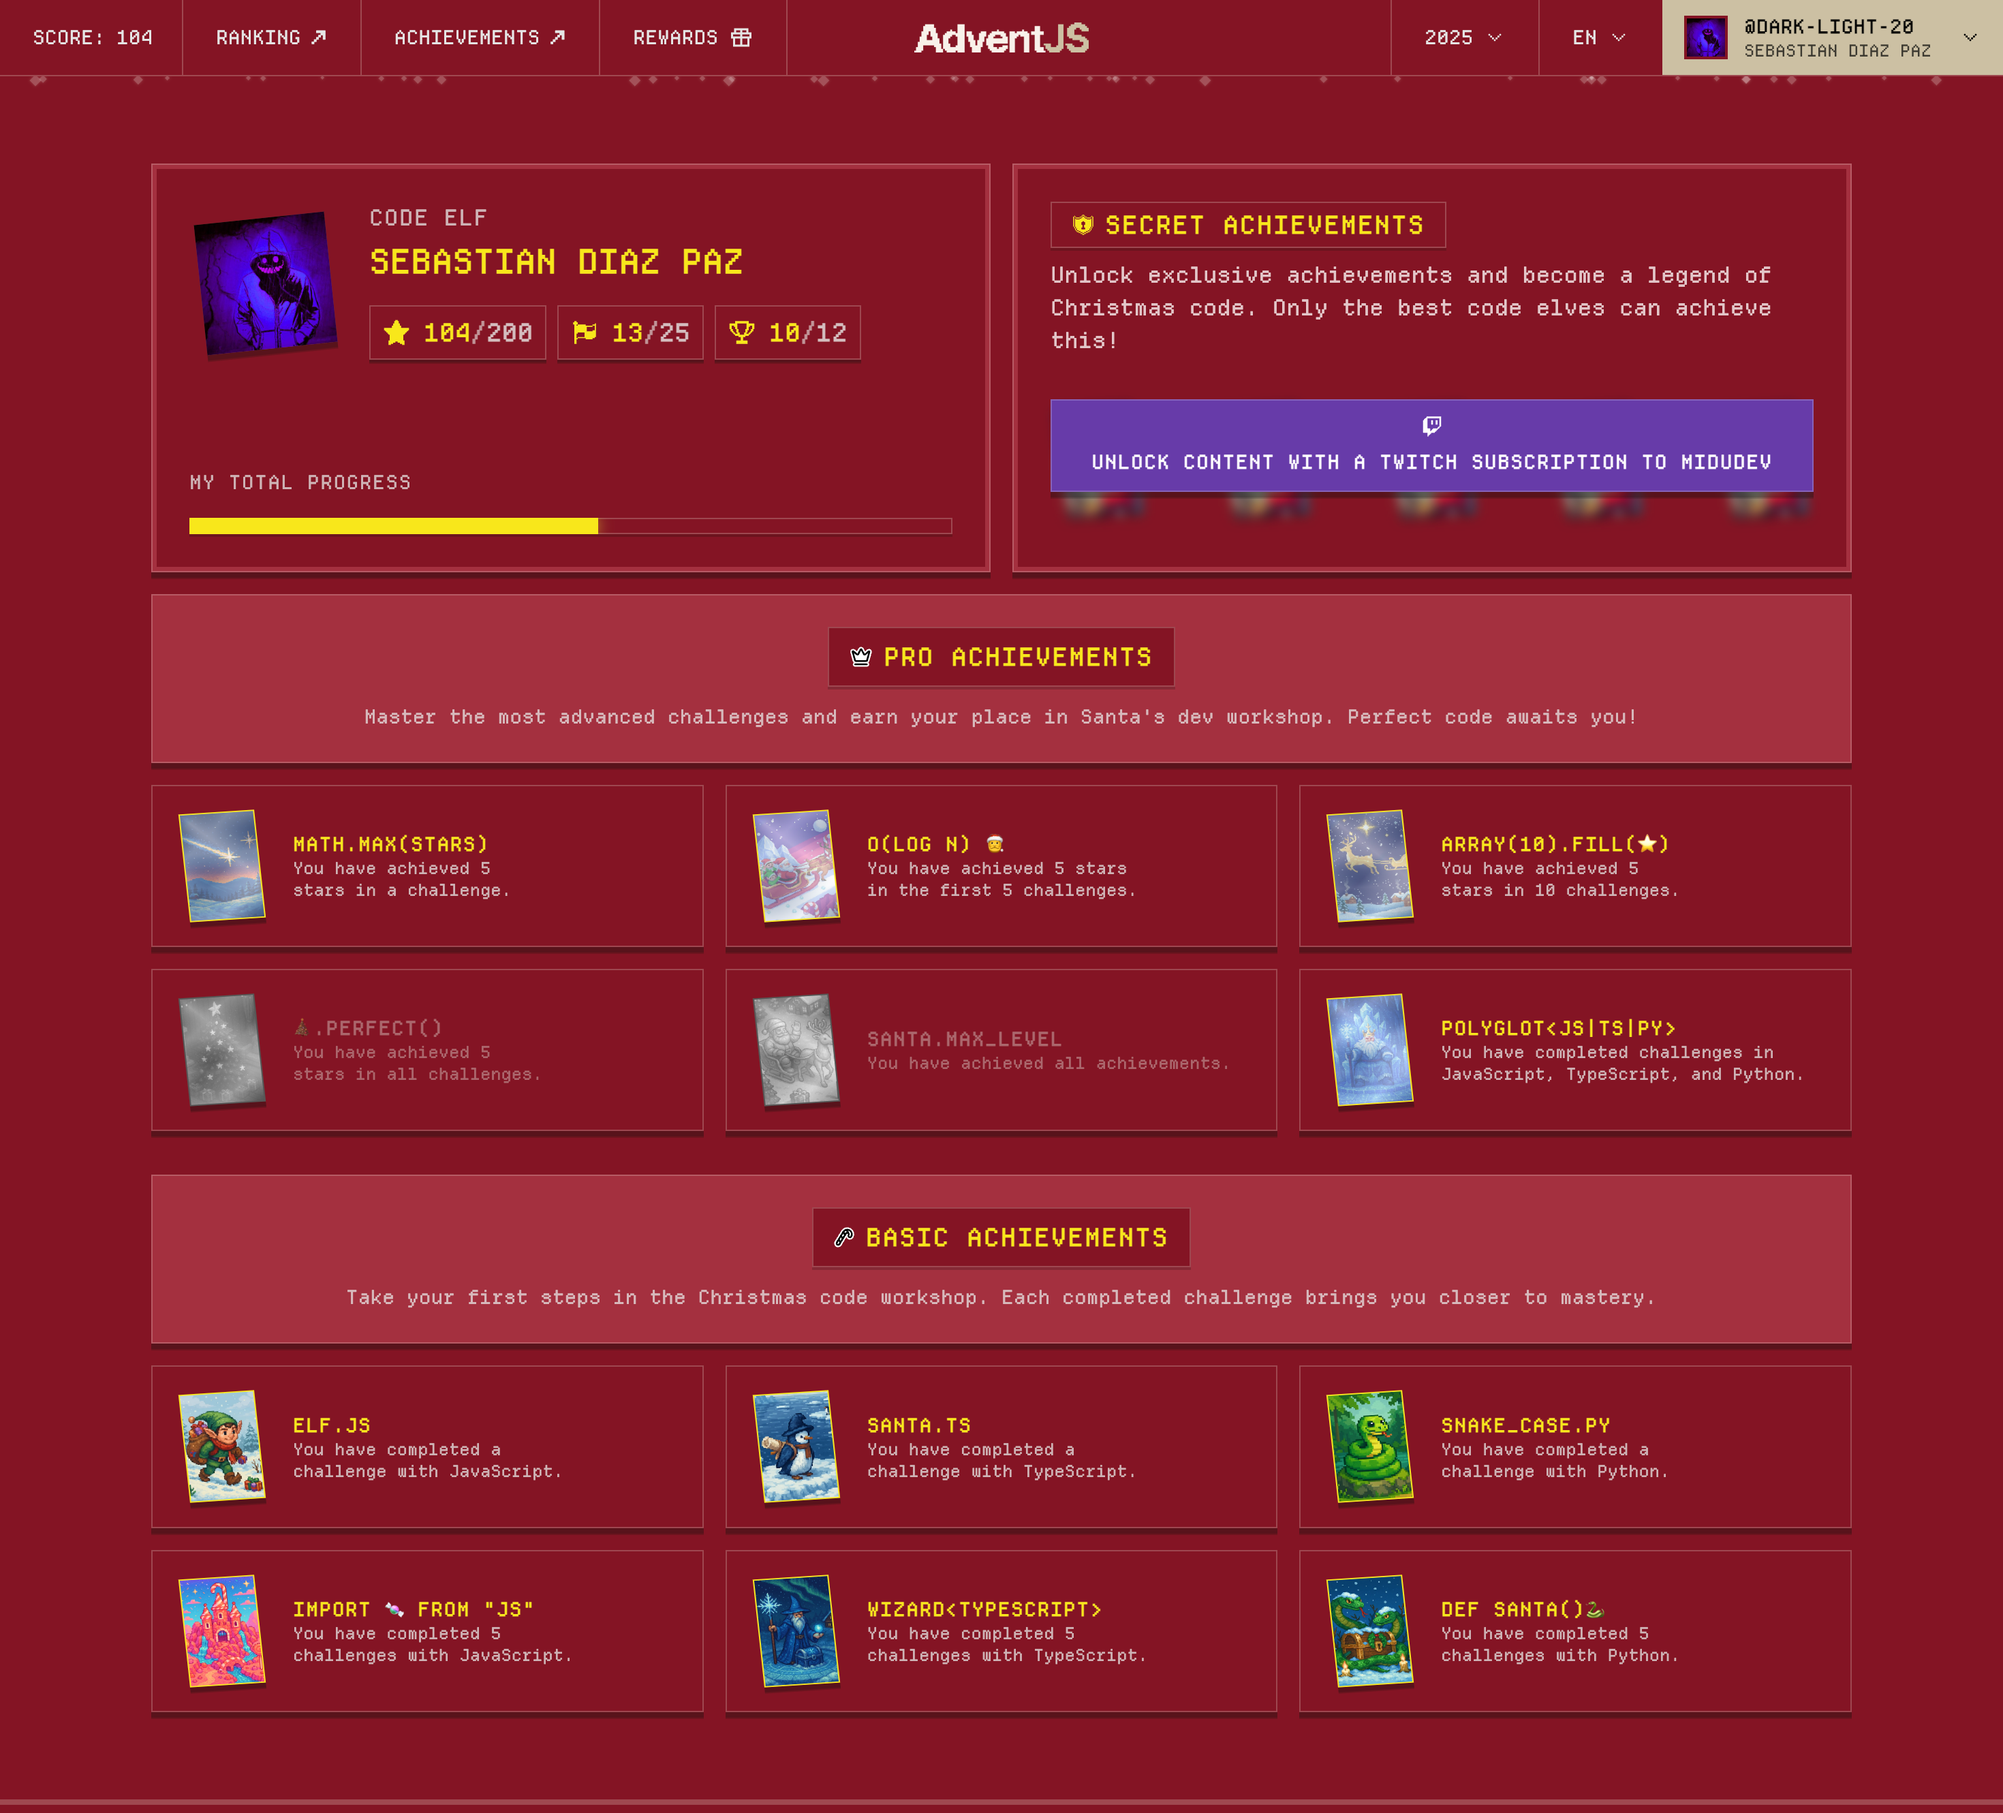
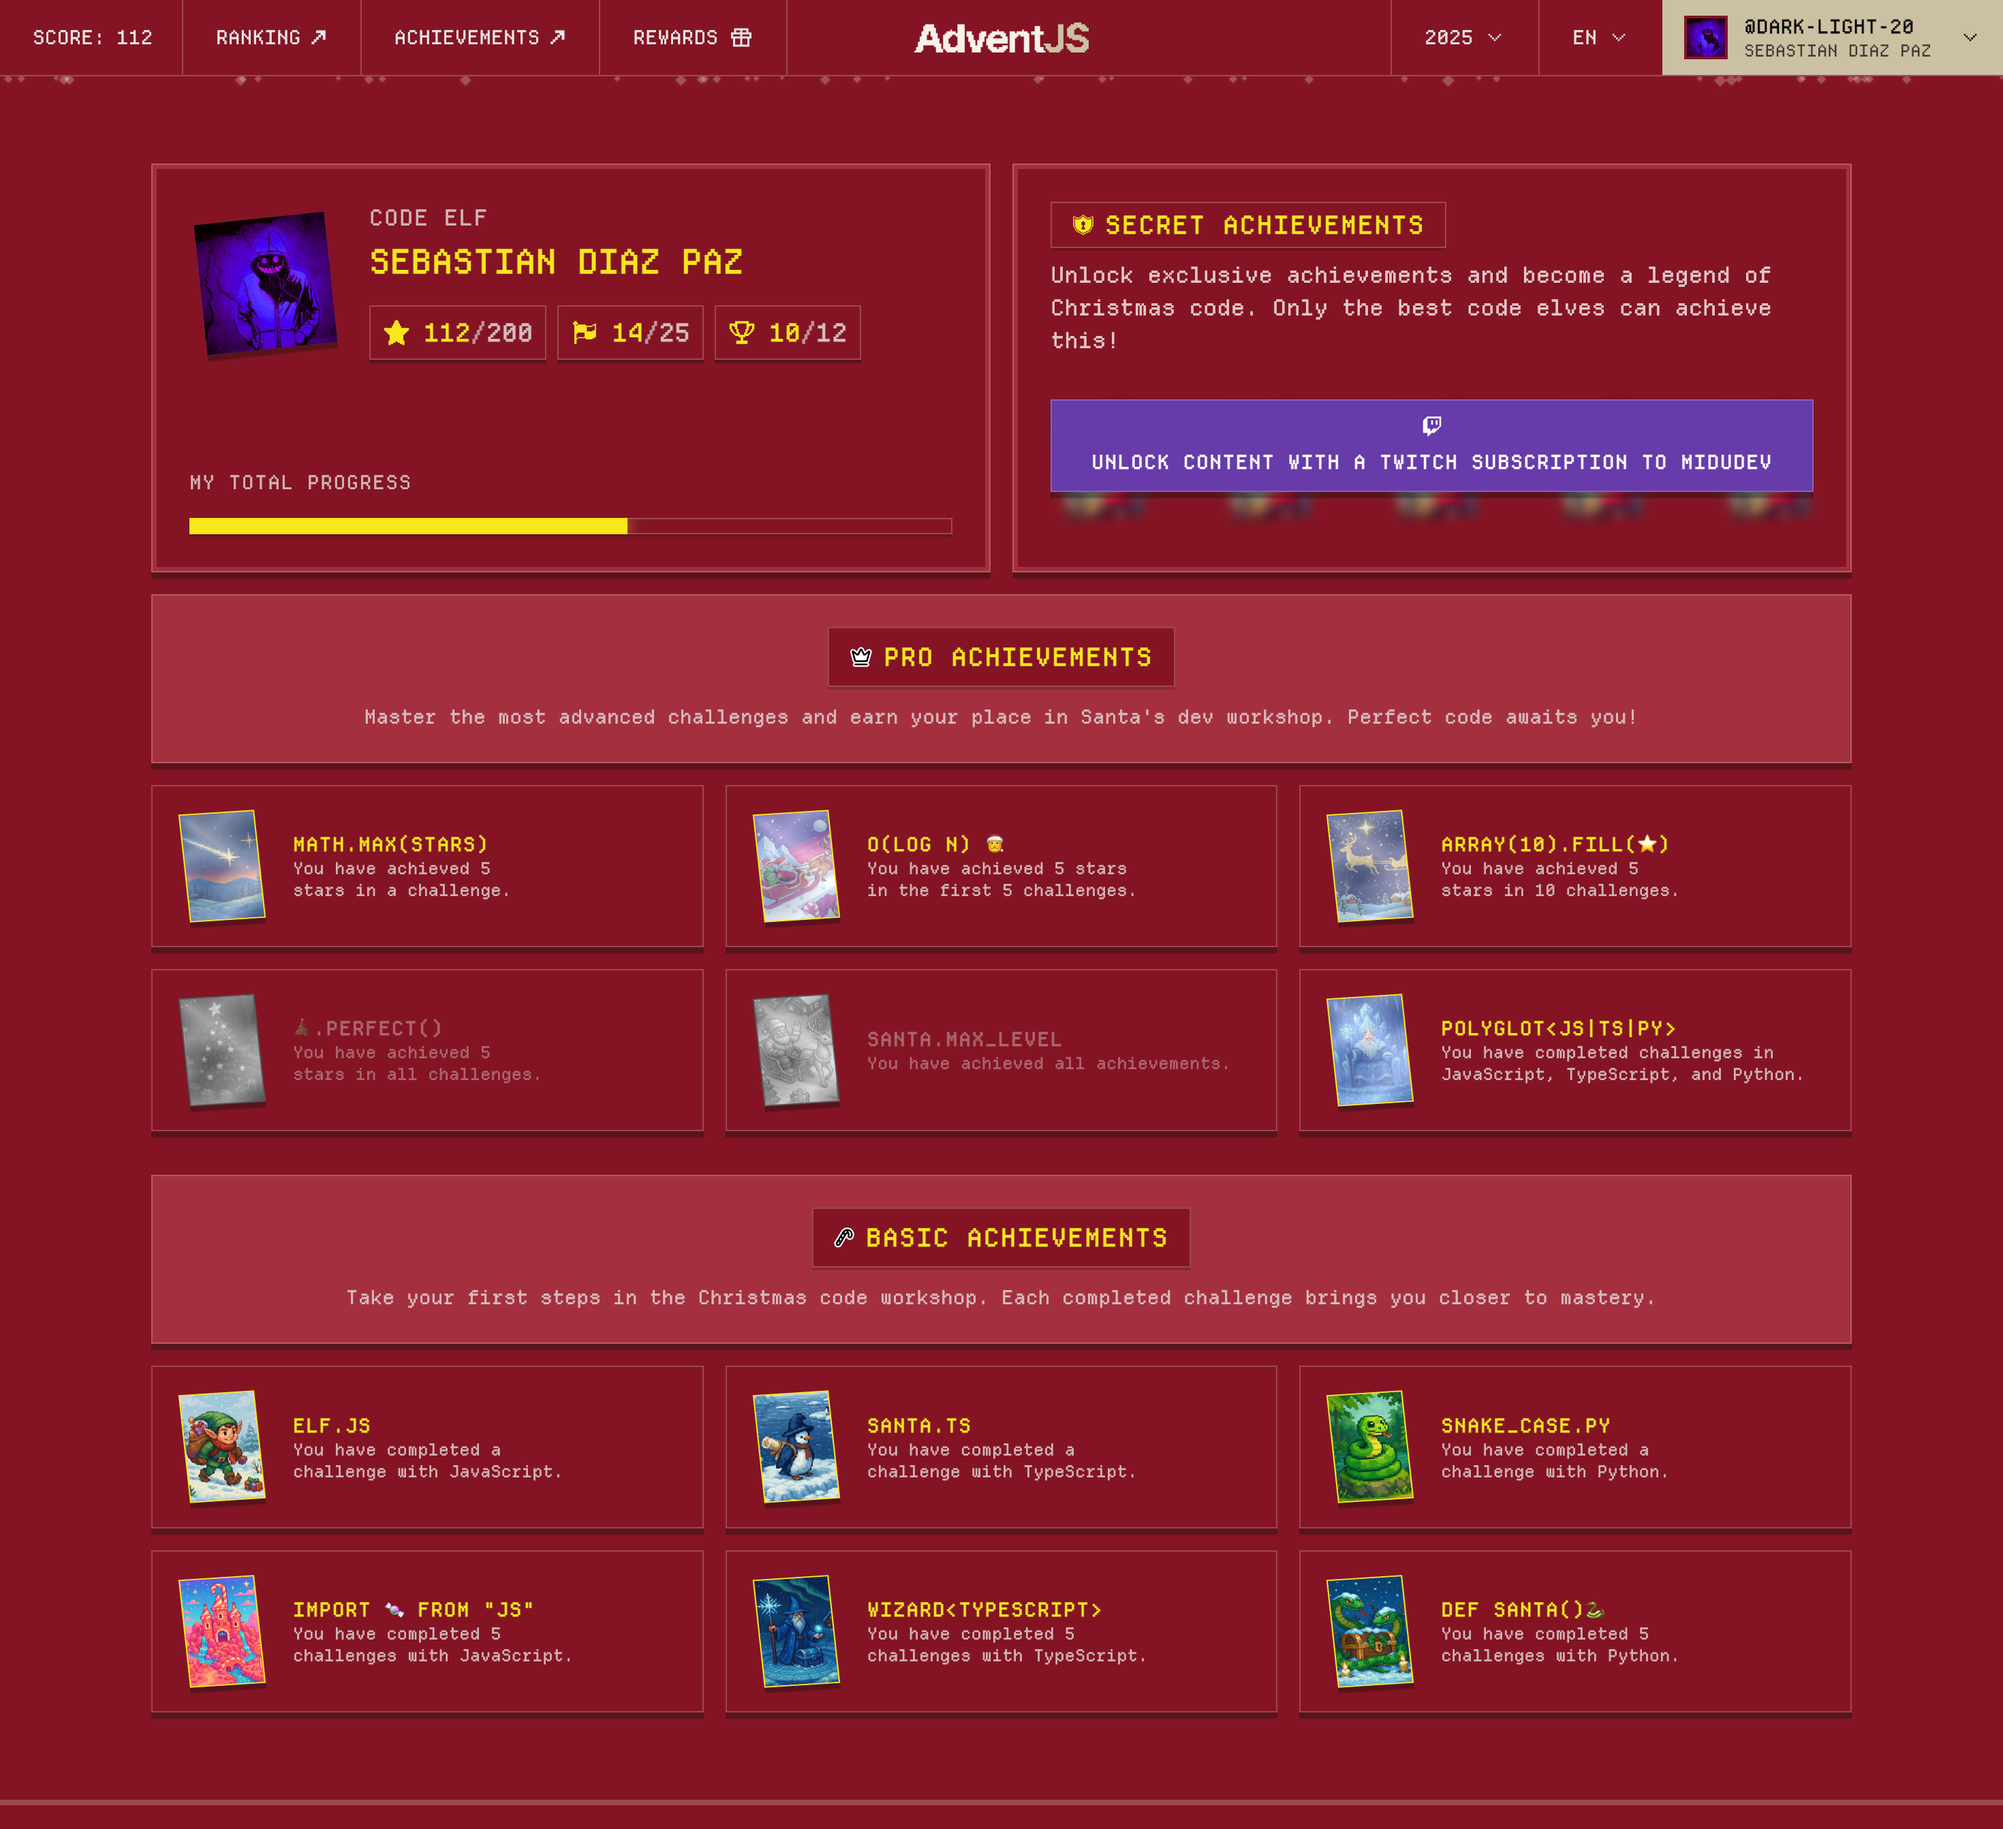
feat: :sparkles: Added challenge 14 solution

diff --git a/solutions/js/14.js b/solutions/js/14.js
@@ -1,0 +1,63 @@
+/**
+ * @param {object} workshop - A representation of the workshop
+ * @param {string|number|boolean} gift - The gift to find
+ * @returns {number[]} The path to the gift
+ */
+function findGiftPath(workshop, gift) {
+  const path = [];
+  const getGiftPath = (object, gift) => {
+    const keys = Object.keys(object);
+    for (const key of keys) {
+      const value = object[key];
+      if (value === gift) {
+        path.unshift(key);
+        return true;
+      } else if (typeof value === "object") {
+        if (getGiftPath(value, gift)) {
+          path.unshift(key);
+          return true;
+        }
+      }
+    }
+    return false;
+  };
+  getGiftPath(workshop, gift);
+  return path;
+}
+
+const workshop = {
+  storage: {
+    shelf: {
+      box1: "train",
+      box2: "switch",
+    },
+    box: "car",
+  },
+  gift: "doll",
+};
+
+const path1 = findGiftPath(workshop, "train");
+// ➜ ['storage', 'shelf', 'box1']
+console.log(path1);
+
+const path2 = findGiftPath(workshop, "switch");
+// ➜ ['storage', 'shelf', 'box2']
+console.log(path2);
+
+const path3 = findGiftPath(workshop, "car");
+// ➜ ['storage', 'box']
+console.log(path3);
+
+const path4 = findGiftPath(workshop, "doll");
+// ➜ ['gift']
+console.log(path4);
+
+const path5 = findGiftPath(workshop, "plane");
+// ➜ []
+console.log(path5);
+
+/* 
+  Score: ★★★★★★★★ (3 bonus stars for solving it today!)
+  Points: 100
+  ops: 1961
+*/

diff --git a/solutions/ts/14.ts b/solutions/ts/14.ts
@@ -1,0 +1,62 @@
+type Gift = string | number | boolean;
+type Workshop = Record<string, any>;
+type Path = string[];
+
+function findGiftPath(workshop: Workshop, gift: Gift): Path {
+  const path: Path = [];
+  const getGiftPath = (object: Workshop, gift: Gift) => {
+    const keys = Object.keys(object);
+    for (const key of keys) {
+      const value = object[key];
+      if (value === gift) {
+        path.unshift(key);
+        return true;
+      } else if (typeof value === "object") {
+        if (getGiftPath(value, gift)) {
+          path.unshift(key);
+          return true;
+        }
+      }
+    }
+    return false;
+  };
+  getGiftPath(workshop, gift);
+  return path;
+}
+
+const workshop = {
+  storage: {
+    shelf: {
+      box1: "train",
+      box2: "switch",
+    },
+    box: "car",
+  },
+  gift: "doll",
+};
+
+const path1 = findGiftPath(workshop, "train");
+// ➜ ['storage', 'shelf', 'box1']
+console.log(path1);
+
+const path2 = findGiftPath(workshop, "switch");
+// ➜ ['storage', 'shelf', 'box2']
+console.log(path2);
+
+const path3 = findGiftPath(workshop, "car");
+// ➜ ['storage', 'box']
+console.log(path3);
+
+const path4 = findGiftPath(workshop, "doll");
+// ➜ ['gift']
+console.log(path4);
+
+const path5 = findGiftPath(workshop, "plane");
+// ➜ []
+console.log(path5);
+
+/* 
+  Score: ★★★★★★★★ (3 bonus stars for solving it today!)
+  Points: 100
+  ops: 2103
+*/

diff --git a/solutions/python/14.py b/solutions/python/14.py
@@ -1,0 +1,58 @@
+from typing import Union
+
+
+def find_gift_path(workshop: dict, gift: Union[str, int, bool]) -> list[str]:
+    path = []
+
+    def get_gift_path(node: dict, gift: Union[str, int, bool]) -> bool:
+        keys = node.keys()
+        for key in keys:
+            value = node[key]
+            if (value == gift):
+                path.insert(0, key)
+                return True
+            elif (isinstance(value, dict)):
+                if (get_gift_path(value, gift)):
+                    path.insert(0, key)
+                    return True
+        return False
+    get_gift_path(workshop, gift)
+    return path
+
+
+workshop = {
+    "storage": {
+        "shelf": {
+            "box1": "train",
+            "box2": "switch",
+        },
+        "box": "car",
+    },
+    "gift": "doll",
+}
+
+path1 = find_gift_path(workshop, "train")
+# ➜ ['storage', 'shelf', 'box1']
+print(path1)
+
+path2 = find_gift_path(workshop, "switch")
+# ➜ ['storage', 'shelf', 'box2']
+print(path2)
+
+path3 = find_gift_path(workshop, "car")
+# ➜ ['storage', 'box']
+print(path3)
+
+path4 = find_gift_path(workshop, "doll")
+# ➜ ['gift']
+print(path4)
+
+path5 = find_gift_path(workshop, "plane")
+# ➜ []
+print(path5)
+
+"""
+  Score: ★★★★★★★★ (3 bonus stars for solving it today!)
+  Points: 100
+  ops: 2033
+"""

diff --git a/README.md b/README.md
@@ -21,7 +21,7 @@ This repository contains my solutions to **25** challenges proposed by [Midudev]
 | #11       | 📹 Unwatched gifts            | 🟢 Easy    | [Description](challenges/11.md) | [JS Solution](solutions/js/11.js) | [TS Solution](solutions/ts/11.ts) | [Py Solution](solutions/python/11.py) |
 | #12       | ⚔ Elf battle                 | 🟠 Medium  | [Description](challenges/12.md) | [JS Solution](solutions/js/12.js) | [TS Solution](solutions/ts/12.ts) | [Py Solution](solutions/python/12.py) |
 | #13       | 🏭 The assembly line          | 🟠 Medium  | [Description](challenges/13.md) | [JS Solution](solutions/js/13.js) | [TS Solution](solutions/ts/13.ts) | [Py Solution](solutions/python/13.py) |
-| #14       |                               | ⚪ Unknow | [Description](challenges/14.md) | [JS Solution](solutions/js/14.js) | [TS Solution](solutions/ts/14.ts) | [Py Solution](solutions/python/14.py) |
+| #14       | 🗃 Find the gift path         | 🟢 Easy    | [Description](challenges/14.md) | [JS Solution](solutions/js/14.js) | [TS Solution](solutions/ts/14.ts) | [Py Solution](solutions/python/14.py) |
 | #15       |                               | ⚪ Unknow | [Description](challenges/15.md) | [JS Solution](solutions/js/15.js) | [TS Solution](solutions/ts/15.ts) | [Py Solution](solutions/python/15.py) |
 | #16       |                               | ⚪ Unknow | [Description](challenges/16.md) | [JS Solution](solutions/js/16.js) | [TS Solution](solutions/ts/16.ts) | [Py Solution](solutions/python/16.py) |
 | #17       |                               | ⚪ Unknow | [Description](challenges/17.md) | [JS Solution](solutions/js/17.js) | [TS Solution](solutions/ts/17.ts) | [Py Solution](solutions/python/17.py) |

diff --git a/challenges/14.md b/challenges/14.md
@@ -1,0 +1,48 @@
+# Challenge #14: 🗃 Find the gift path
+
+<small>Easy</small>
+
+At the North Pole, the elves have simplified their storage system to avoid mistakes.
+
+They now keep the presents in a **magical object with limited depth**, where **each value appears only once**.
+
+Santa needs a quick way to know **which path of keys** he must follow to find a specific present.
+
+Your task is to write a function that, given an object and a value, returns the **array of keys** that must be traversed to reach that value.
+
+**Rules:**
+
+- The object has **at most 3 levels of depth**.
+- The value to search for **appears at most once**.
+- The object only contains **other objects and primitive values** (strings, numbers, booleans).
+- If the value does not exist, return an empty array.
+
+🧩 Examples
+
+```javascript
+const workshop = {
+  storage: {
+    shelf: {
+      box1: "train",
+      box2: "switch",
+    },
+    box: "car",
+  },
+  gift: "doll",
+};
+
+findGiftPath(workshop, "train");
+// ➜ ['storage', 'shelf', 'box1']
+
+findGiftPath(workshop, "switch");
+// ➜ ['storage', 'shelf', 'box2']
+
+findGiftPath(workshop, "car");
+// ➜ ['storage', 'box']
+
+findGiftPath(workshop, "doll");
+// ➜ ['gift']
+
+findGiftPath(workshop, "plane");
+// ➜ []
+```
